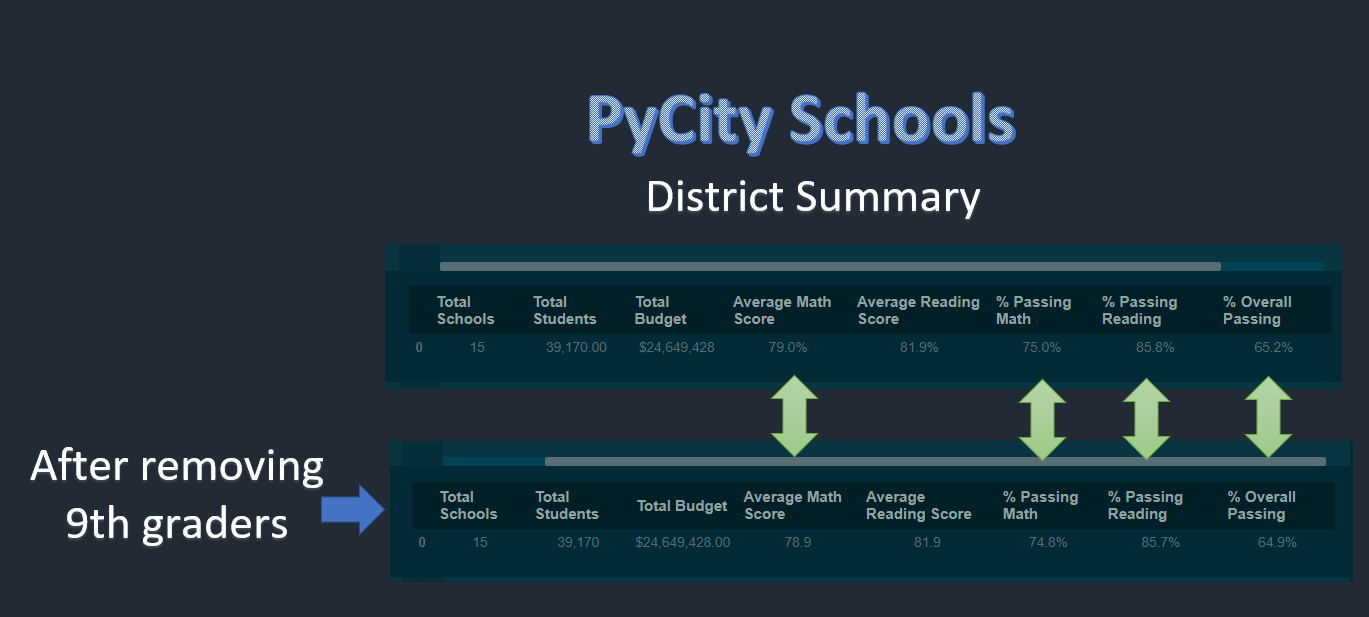
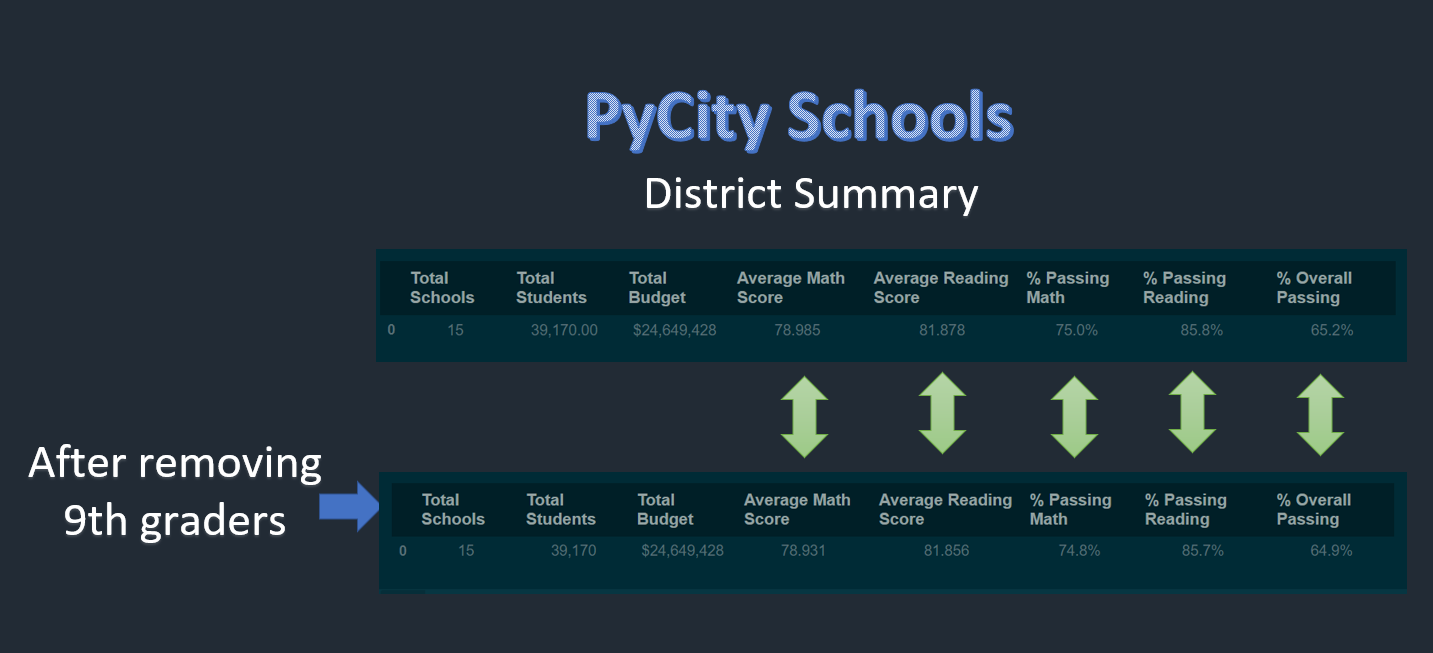
updated

Changed region(s): [[0.0, 0.3695, 1.0, 0.9546], [0.3988, 0.1232, 0.767, 0.3387]]

diff --git a/README.md b/README.md
@@ -6,17 +6,18 @@
 -The purpose of this project it to apply all that we learned in the module 4, in the Data analysis and visualization  Boot camp of the University of Texas at Austin.
 During the this module we had the opportunity to learn the Pandas Libraries for Python. 
 
-During the module I worked with data of  math and reading scores  15 schools
+During the module I worked with data of  Math and reading Scores  15 schools getting very interesting insights such as averages scores and average passing % and grouping data by school, grades, Spending Type, School type, School size.
 
-For this challenge of the module 4 ,  I was requested to run the same analysis i did during the module activities but  this time I had to remove the records of the 9th graders of Thomas High School.
+For this challenge of the module 4 ,  I was requested to run the same analysis I did during the module 4 activities but  this time I had to remove the records of the 9th graders of Thomas High School and see the differences in  insights
+
 	
 ## Results
 
--  We can identify there where some changes in the final numbers after removing the 9th graders. I will show the details  below.
+-  We can identify the changes in the final numbers after removing the 9th graders. I will show the details  below.
 
 ### How is the district summary affected?
 
-We can see in the image below that in general the district averages scores and passing averages % were lower after removing the  data.
+Below you can see the changes in the numbers for the “District summary”
 
 
 - <img src = "Resources/disctrict-summary.png" width= "400" >
@@ -35,7 +36,7 @@ Average reading score. Slightly higher
 
 ### How does replacing the ninth graders’ math and reading scores affect Thomas High School’s performance relative to the other schools?
 
-Ranking wise it did not change the position of  Thomas High School 
+Ranking wise, the data eliminated did not change the position of  Thomas High School 
 
 -For Math score  where the average score las lower , the schools keeps its 13th position 
 
@@ -45,13 +46,22 @@ Ranking wise it did not change the position of  Thomas High School
 
 
 ### How does replacing the ninth-grade scores affect the following:
+
 Math and reading scores by grade
+Only the 9th grades data changed
 - <img src = "Resources/grades_summary.png" width= "400" >
+
 Scores by school spending
+Only the $630-644 group was affected by the change in data
 - <img src = "Resources/spending_ranges.png" width= "400" >
+
 Scores by school size
+The medium school size group was affected.
+
 - <img src = "Resources/school_size.png" width= "400" >
+
 Scores by school type
+The Charters type was impacted 
 
 - <img src = "Resources/school_type.png" width= "400" >
 
@@ -59,8 +69,10 @@ Scores by school type
 
 ## PySchool Analysis Summary
 
-Thanks to the analysis we could have with the data provided. we can see 5 metrics were immpacted with the 9th graders change. Total students and Total Budget remains the same.
-See imega below
+Thanks to the analysis we could have with the data provided, we can see 5 metrics were impacted with the 9th graders change. Total students and Total Budget remain unchanged.
+
+See image below
+
 
 - <img src = "Resources/7_metrics.png" width= "400" >
 
@@ -70,10 +82,3 @@ We can also identify the 4 most important changes. See image below
 
 	
 
--District summary
--Schools summary
--Top 5 performing schools
--Button 5 performing schools
--Summary by School size
--Summary by School size
--Summary by School type
